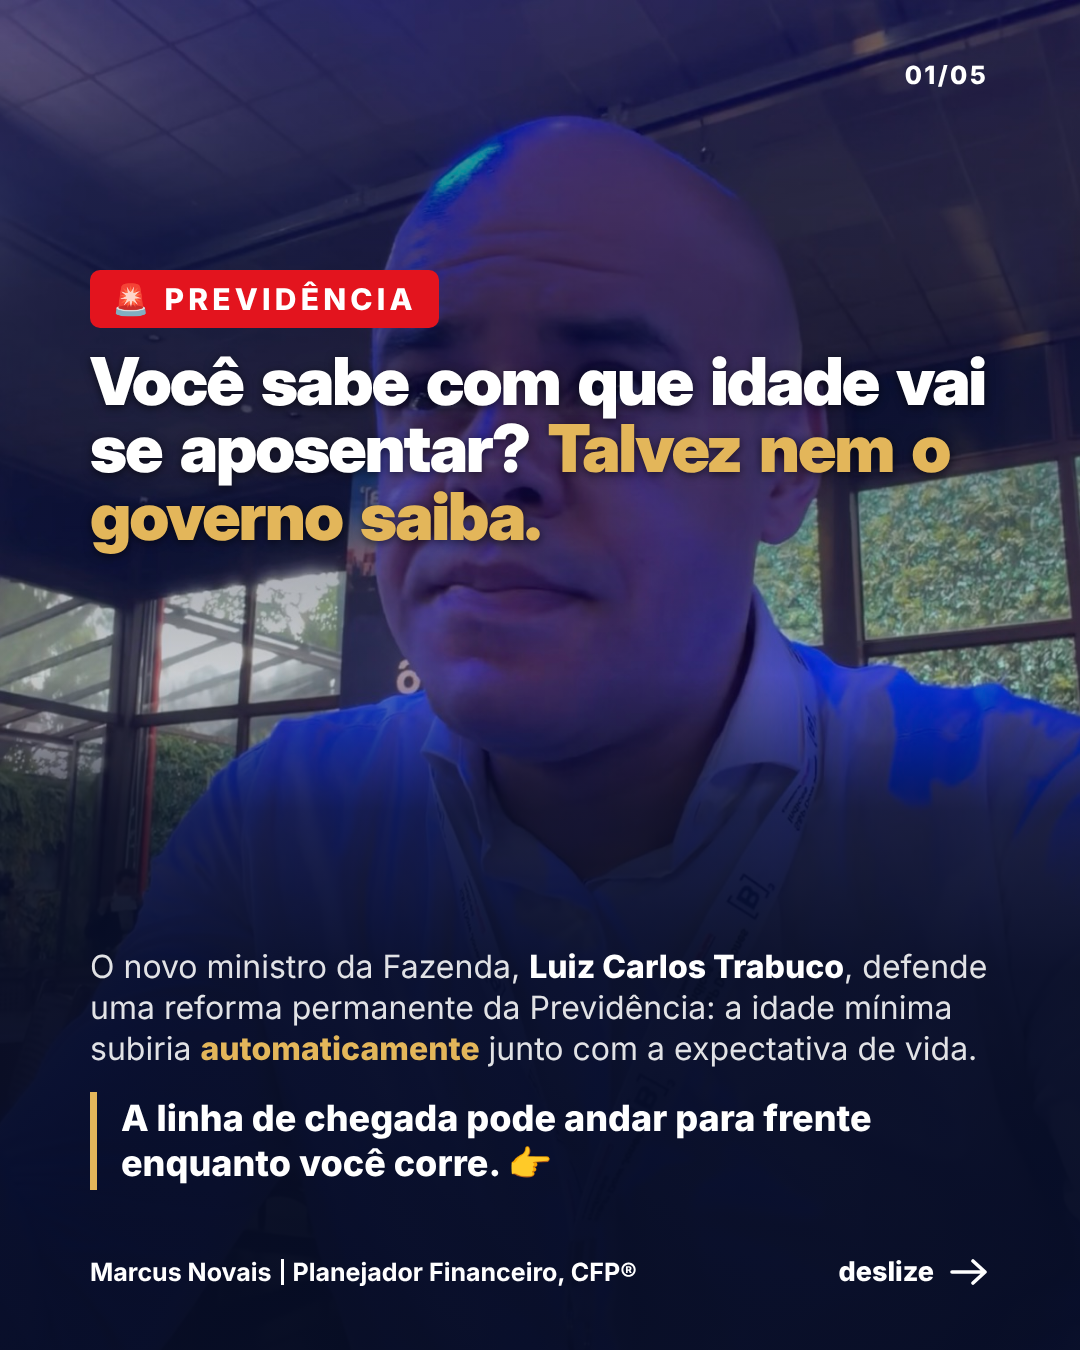
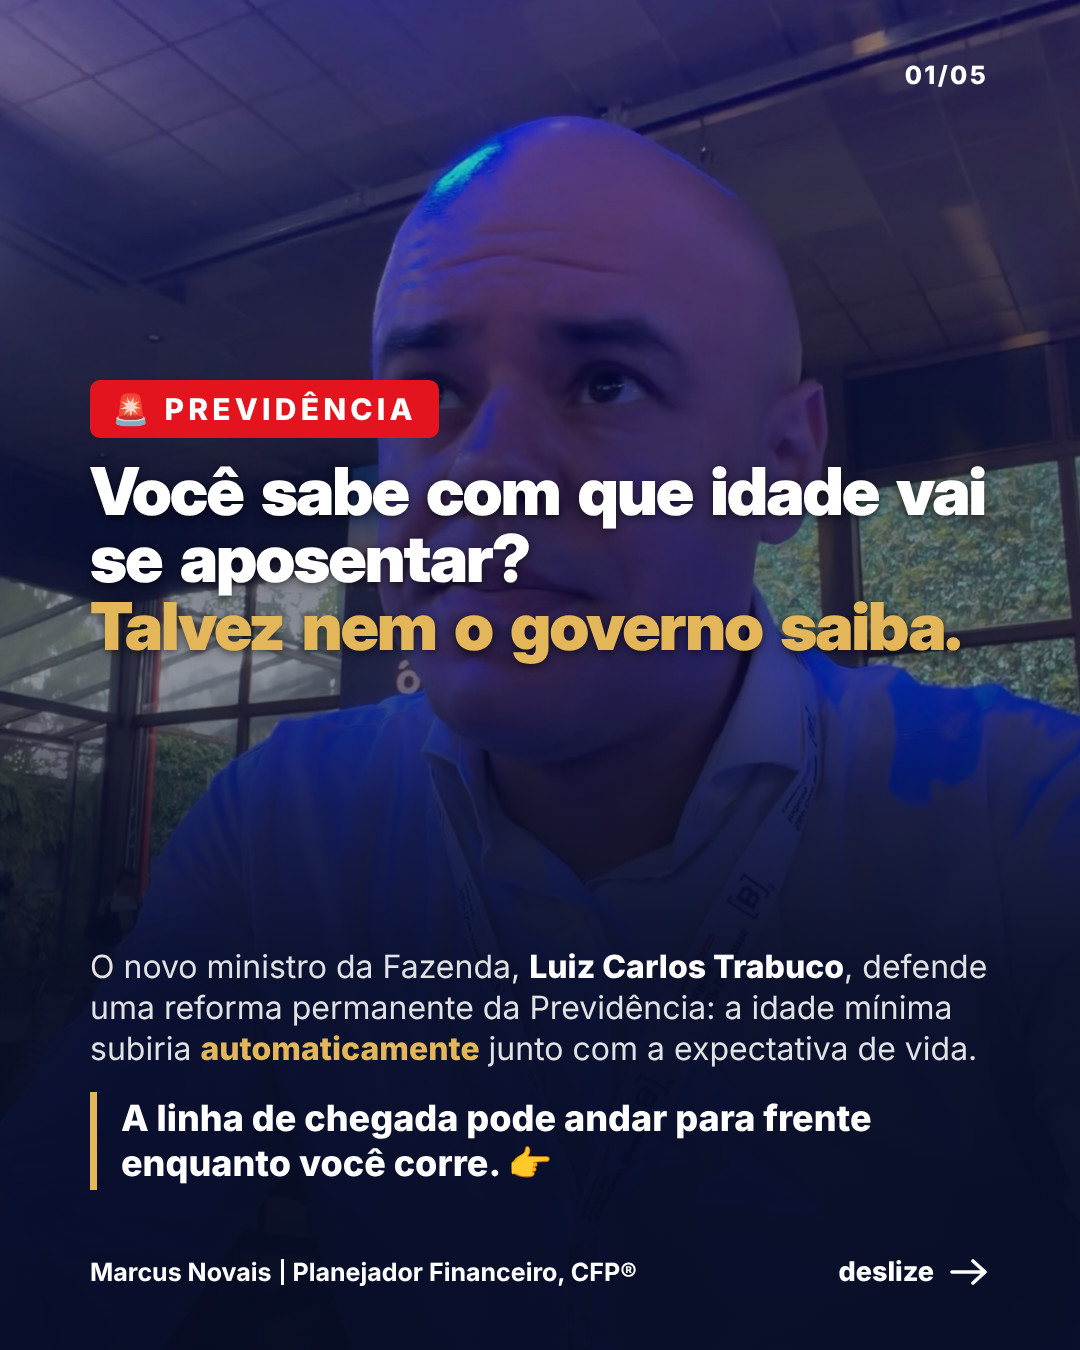
Carrossel Previdência: título da capa mais baixo, amarelo em outra linha
Claude-Session: https://claude.ai/code/session_01JkBXj6tz5hpSkGAznkwYEm

Changed region(s): [[0.0, 0.0622, 1.0, 0.56], [0.7944, 0.0, 0.825, 0.0622], [0.0, 0.0, 0.0306, 0.0622]]

diff --git a/carrossel-previdencia-expectativa/slides.html b/carrossel-previdencia-expectativa/slides.html
@@ -141,9 +141,9 @@ const PH=(k,pos,extra)=>`<img src="img/${k}.jpg" style="object-position:${pos||'
 const S=[];
 // 1 capa
 S.push({h:`<div class="bg">${PH('marcus','50% 25%')}</div>
- <div class="shade" style="background:linear-gradient(180deg, rgba(7,13,36,.35) 0%, rgba(7,13,36,.55) 24%, rgba(7,13,36,.4) 38%, rgba(7,13,36,.2) 50%, rgba(7,13,36,.75) 60%, rgba(7,13,36,.93) 72%, rgba(7,13,36,.96) 100%)"></div>
- <div style="position:absolute; left:90px; right:90px; top:270px; z-index:3"><div class="pill red" style="display:inline-block">🚨 Previdência</div>
-  <h1 style="font-size:66px; text-transform:none; letter-spacing:-.03em; text-shadow:0 2px 10px rgba(0,0,0,.6)">Você sabe com que idade vai se aposentar? <em>Talvez nem o governo saiba.</em></h1></div>
+ <div class="shade" style="background:linear-gradient(180deg, rgba(7,13,36,.15) 0%, rgba(7,13,36,.4) 24%, rgba(7,13,36,.55) 36%, rgba(7,13,36,.45) 50%, rgba(7,13,36,.75) 60%, rgba(7,13,36,.93) 72%, rgba(7,13,36,.96) 100%)"></div>
+ <div style="position:absolute; left:90px; right:90px; top:380px; z-index:3"><div class="pill red" style="display:inline-block">🚨 Previdência</div>
+  <h1 style="font-size:66px; text-transform:none; letter-spacing:-.03em; text-shadow:0 2px 10px rgba(0,0,0,.6)">Você sabe com que idade vai se aposentar?<br><em>Talvez nem o governo saiba.</em></h1></div>
  <div class="page end"><p style="font-size:32px">O novo ministro da Fazenda, <b>Luiz Carlos Trabuco</b>, defende uma reforma permanente da Previdência: a idade mínima subiria <b class="g">automaticamente</b> junto com a expectativa de vida.</p>
   <div class="hl">A linha de chegada pode andar para frente enquanto você corre. 👉</div></div>`});
 // 2 notícia IBGE
